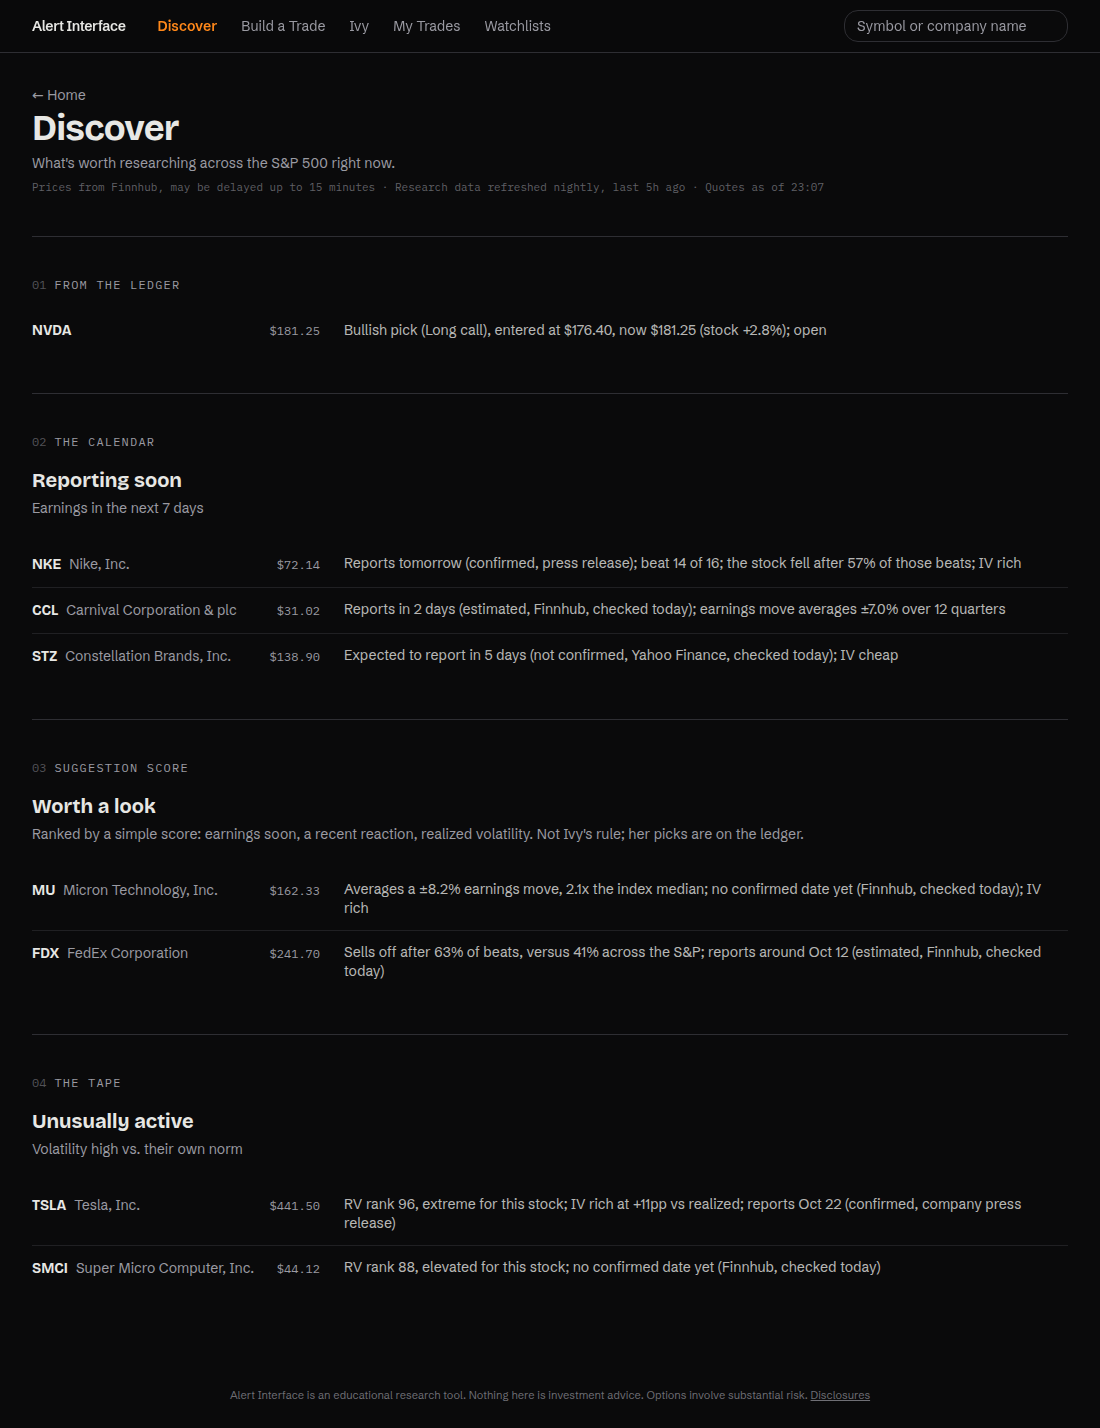
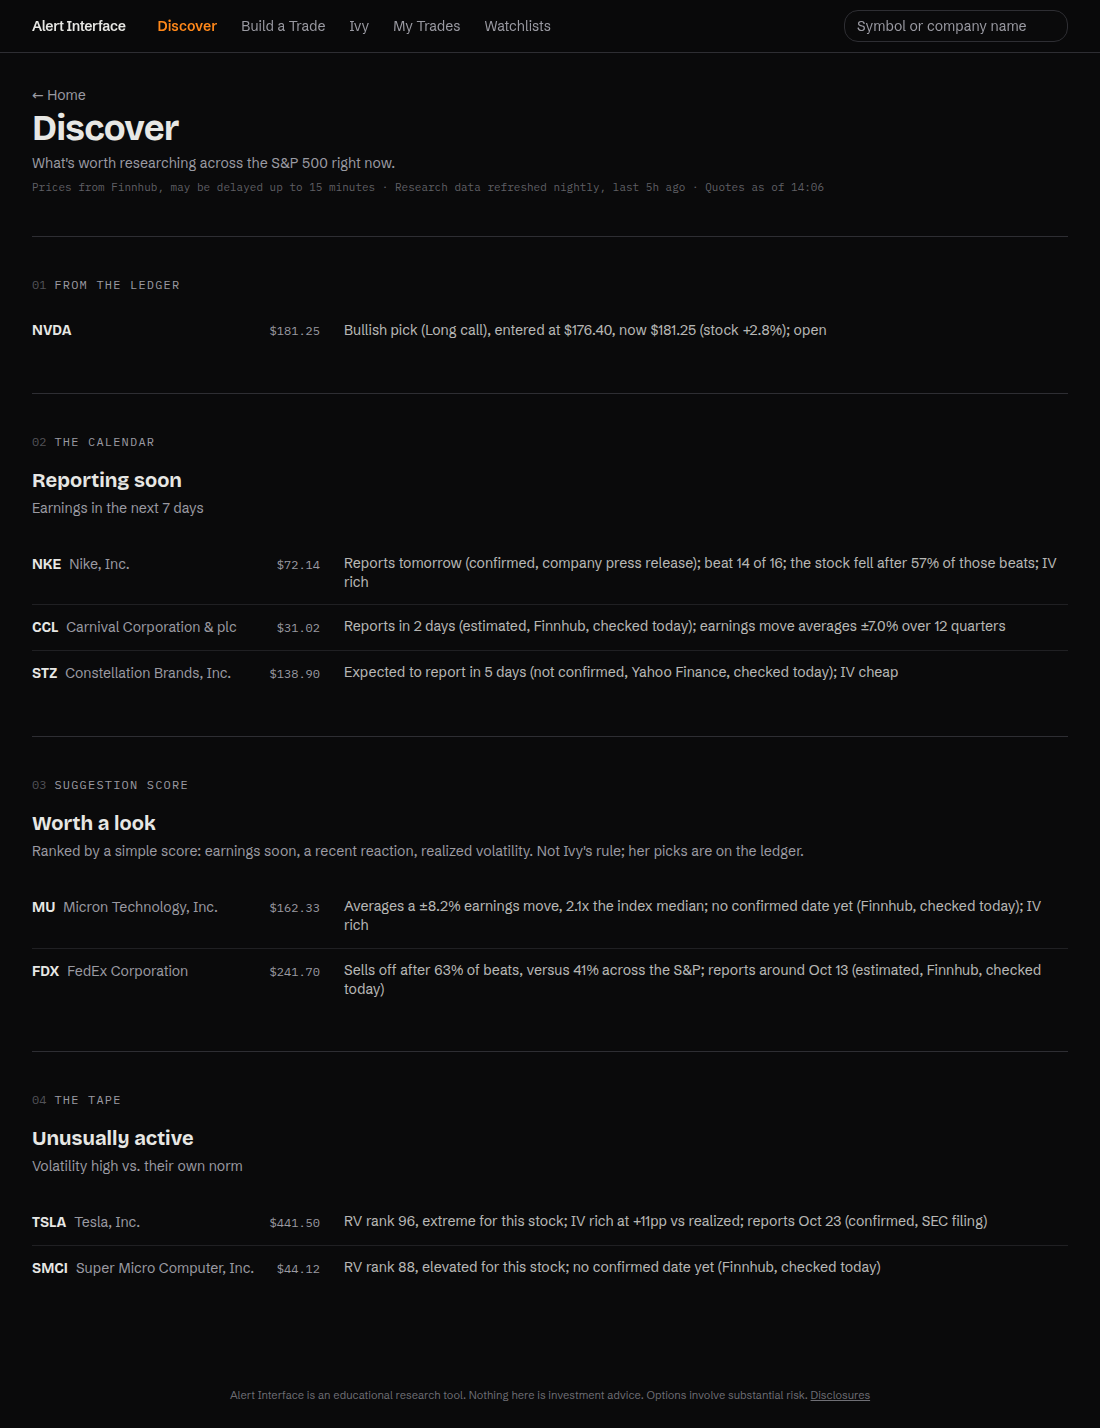
fix: a confirmed date on Discover names its source type, never the headline or its date
The calendar refresh writes the evidence into the confirmation note
("press release via Finnhub news <date>: <headline>", "8-K Item 7.01 filed
<date>"). The Discover sentence now reads only the type prefix and says
"(confirmed, company press release)" or "(confirmed, SEC filing)"; two
calendars agreeing stays "Finnhub and Yahoo Finance agree", and anything else
falls back to "company announcement". Estimated dates are unchanged:
"(estimated, Yahoo Finance, checked today)". Screenshots retaken.

Claude-Session: https://claude.ai/code/session_019pqbyyKucfvz5nLt82XAp4

diff --git a/frontend/src/lib/__tests__/discoverRows.test.ts b/frontend/src/lib/__tests__/discoverRows.test.ts
@@ -3,7 +3,9 @@ import { join } from "node:path";
 import { describe, expect, it } from "vitest";
 import type { JustReportedItem, LatestPickItem, ReportingSoonItem, SuggestionItem, UnusuallyActiveItem, EarningsOutcome } from "@/lib/api";
 import {
+  CONFIRMED_KIND,
   OUTCOME_LEAD,
+  confirmedKind,
   earningsClause,
   justReportedSentence,
   latestPickSentence,
@@ -64,17 +66,44 @@ describe("row sentences", () => {
   it("the calendar: when, the level with its source in parentheses, then the stored blurb", () => {
     const item: ReportingSoonItem = {
       ...base, symbol: "ACME", earnings_date: "2026-09-30", is_confirmed: true, source: "finnhub",
-      checked_at: TODAY_CHECK, confirmation: "confirmed", confirmation_note: "confirmed: press release",
+      checked_at: TODAY_CHECK, confirmation: "confirmed",
+      confirmation_note: "confirmed: press release via Finnhub news 2026-09-02: Acme Corp to Announce Fiscal 2027 First Quarter Results",
       insight: "Beat 7 of 8, averaging +3.1% on the 1-day reaction to a beat", vol_regime: "iv_rich",
     };
     expect(reportingSoonSentence(item, NOW)).toBe(
-      "Reports tomorrow (confirmed, press release); beat 7 of 8, averaging +3.1% on the 1-day reaction to a beat; IV rich");
+      "Reports tomorrow (confirmed, company press release); beat 7 of 8, averaging +3.1% on the 1-day reaction to a beat; IV rich");
 
     const estimated = { ...item, earnings_date: "2026-10-02", confirmation: "estimated", confirmation_note: null, insight: null, vol_regime: null };
     expect(reportingSoonSentence(estimated, NOW)).toBe("Reports in 3 days (estimated, Finnhub, checked today)");
 
     const today = { ...estimated, earnings_date: "2026-09-29", confirmation: "expected_unconfirmed", source: "yfinance", vol_regime: "iv_fair" };
     expect(reportingSoonSentence(today, NOW)).toBe("Expected to report today (not confirmed, Yahoo Finance, checked today)");
+  });
+
+  it("a confirmed date names its source type, never the headline or the announcement date", () => {
+    const headline = "confirmed: press release via Finnhub news 2026-09-02: Acme Corp to Announce Fiscal 2027 First Quarter Results";
+    const filing = "confirmed: 8-K Item 8.01 filed 2026-09-15";
+    expect(confirmedKind(headline)).toBe("company press release");
+    expect(confirmedKind(filing)).toBe("SEC filing");
+    expect(confirmedKind("confirmed: Finnhub and Yahoo Finance agree")).toBe(CONFIRMED_KIND.calendars);
+    expect(confirmedKind("confirmed: company announcement")).toBe(CONFIRMED_KIND.company);
+    expect(confirmedKind("confirmed: something new the refresh starts writing 2026-09-01")).toBe(CONFIRMED_KIND.company);
+    expect(confirmedKind(null)).toBe(CONFIRMED_KIND.company);
+
+    const item: ReportingSoonItem = {
+      ...base, symbol: "ACME", earnings_date: "2026-10-01", is_confirmed: true, source: "edgar",
+      checked_at: TODAY_CHECK, confirmation: "confirmed", confirmation_note: headline, insight: null, vol_regime: null,
+    };
+    for (const note of [headline, filing]) {
+      const s = reportingSoonSentence({ ...item, confirmation_note: note }, NOW);
+      expect(s).not.toMatch(/2026|Announce|Item|Finnhub news|filed/);
+    }
+    expect(reportingSoonSentence(item, NOW)).toBe("Reports in 2 days (confirmed, company press release)");
+    expect(reportingSoonSentence({ ...item, confirmation_note: filing }, NOW)).toBe("Reports in 2 days (confirmed, SEC filing)");
+    expect(earningsClause("2026-10-21", "edgar", TODAY_CHECK, "confirmed", headline, NOW)).toBe("reports Oct 21 (confirmed, company press release)");
+    // estimated dates keep the source and when it was checked
+    expect(reportingSoonSentence({ ...item, confirmation: "estimated", source: "yfinance", is_confirmed: false }, NOW)).toBe(
+      "Reports in 2 days (estimated, Yahoo Finance, checked today)");
   });
 
   it("a ticker with no confirmed date says so and when the calendar was checked", () => {
@@ -106,15 +135,15 @@ describe("row sentences", () => {
       ...base, symbol: "VOLT", rv_rank: 91.6, rv_20d: 0.62, tier: "elevated",
       insight: "IV rich at +12pp vs realized · RV rank 92, extreme", vol_regime: "iv_rich",
       earnings_date: "2026-10-21", earnings_source: "edgar", earnings_checked_at: TODAY_CHECK,
-      earnings_confirmation: "confirmed", earnings_note: "confirmed: company press release",
+      earnings_confirmation: "confirmed", earnings_note: "confirmed: 8-K Item 7.01 filed 2026-09-15",
     };
     expect(unusuallyActiveSentence(u, NOW)).toBe(
-      "RV rank 92, elevated for this stock; IV rich at +12pp vs realized; reports Oct 21 (confirmed, company press release)");
+      "RV rank 92, elevated for this stock; IV rich at +12pp vs realized; reports Oct 21 (confirmed, SEC filing)");
     // the tier word follows the API's cutoffs, not the general scale
     expect(unusuallyActiveSentence({ ...u, rv_rank: DISCOVER_EXTREME_RV, insight: null, vol_regime: null, earnings_date: null }, NOW)).toBe(
       `RV rank ${DISCOVER_EXTREME_RV}, extreme for this stock; no confirmed date yet (Finnhub, checked today)`);
     expect(unusuallyActiveSentence({ ...u, rv_rank: DISCOVER_ELEVATED_RV, insight: "RV rank 85, elevated", vol_regime: null }, NOW)).toBe(
-      `RV rank ${DISCOVER_ELEVATED_RV}, elevated for this stock; reports Oct 21 (confirmed, company press release)`);
+      `RV rank ${DISCOVER_ELEVATED_RV}, elevated for this stock; reports Oct 21 (confirmed, SEC filing)`);
   });
 
   it("just reported: the outcome, then the move against its typical one", () => {

diff --git a/frontend/src/lib/discoverSentences.ts b/frontend/src/lib/discoverSentences.ts
@@ -14,7 +14,7 @@ import type {
   SuggestionItem,
   UnusuallyActiveItem,
 } from "@/lib/api";
-import { CALENDAR_SOURCE, checkedPhrase, confirmedBy, earningsSourceNote, fmtEarningsDate } from "@/lib/earningsSource";
+import { CALENDAR_SOURCE, checkedPhrase, earningsSourceNote, fmtEarningsDate } from "@/lib/earningsSource";
 import { discoverRvTier } from "@/lib/encodings/rvTier";
 import { volRegime } from "@/lib/encodings/volRegime";
 
@@ -46,7 +46,26 @@ export function ivClause(regime: string | null | undefined): string | null {
   return v ? v.label.replace(/^IV (\w+)/, (_, w: string) => `IV ${w.toLowerCase()}`) : null;
 }
 
-/** The level and its evidence: "confirmed, press release", "estimated, Finnhub, checked today". */
+/**
+ * What kind of source confirmed a date, from the type prefix the calendar refresh writes into the note
+ * (backend report_announcements / earnings_calendar). Never the headline or the filing date that follow it.
+ */
+export const CONFIRMED_KIND = {
+  pressRelease: "company press release",   // "confirmed: press release via Finnhub news <date>: <headline>"
+  secFiling: "SEC filing",                 // "confirmed: 8-K Item 7.01 filed <date>"
+  calendars: "Finnhub and Yahoo Finance agree",   // AGREEMENT_NOTE: two calendars on the same day
+  company: "company announcement",         // a company confirmation with no recorded evidence, or a note of no known type
+} as const;
+
+export function confirmedKind(note: string | null | undefined): string {
+  const body = (note ?? "").replace(/^confirmed:\s*/i, "").trim();
+  if (/^press release\b/i.test(body)) return CONFIRMED_KIND.pressRelease;
+  if (/^8-K\b/i.test(body)) return CONFIRMED_KIND.secFiling;
+  if (/^Finnhub and Yahoo Finance agree$/i.test(body)) return CONFIRMED_KIND.calendars;
+  return CONFIRMED_KIND.company;
+}
+
+/** The level and its evidence: "confirmed, company press release", "estimated, Finnhub, checked today". */
 function levelNote(
   confirmation: string | null | undefined,
   note: string | null | undefined,
@@ -54,7 +73,7 @@ function levelNote(
   checkedAt: string | null | undefined,
   now: Date,
 ): string {
-  if (confirmation === "confirmed") return `confirmed, ${confirmedBy(note, source)}`;
+  if (confirmation === "confirmed") return `confirmed, ${confirmedKind(note)}`;
   const level = confirmation === "expected_unconfirmed" ? "not confirmed" : "estimated";
   return `${level}, ${earningsSourceNote(source, checkedAt, now)}`;
 }
@@ -87,7 +106,7 @@ function whenPhrase(days: number): string {
   return d === 0 ? "today" : d === 1 ? "tomorrow" : `in ${d} days`;
 }
 
-/** The calendar: "Reports tomorrow (confirmed, press release); beat 7 of 8, averaging +3.1% ...". */
+/** The calendar: "Reports tomorrow (confirmed, company press release); beat 7 of 8, averaging +3.1% ...". */
 export function reportingSoonSentence(item: ReportingSoonItem, now: Date = new Date()): string {
   const days = daysUntil(item.earnings_date, now);
   const lvl = levelNote(item.confirmation, item.confirmation_note, item.source, item.checked_at, now);

diff --git a/frontend/src/lib/earningsSource.ts b/frontend/src/lib/earningsSource.ts
@@ -56,7 +56,7 @@ export function noDateLine(checkedAt: string | null | undefined): string {
 export type Confirmation = "confirmed" | "estimated" | "expected_unconfirmed";
 
 /** The evidence phrase after "confirmed": from the API note, e.g. "confirmed: Finnhub and Yahoo Finance agree". */
-export function confirmedBy(note: string | null | undefined, source: string | null | undefined): string {
+function confirmedBy(note: string | null | undefined, source: string | null | undefined): string {
   const stripped = (note ?? "").replace(/^confirmed:\s*/i, "").split(";")[0].trim();
   return stripped || sourceLabel(source) || "company";
 }
